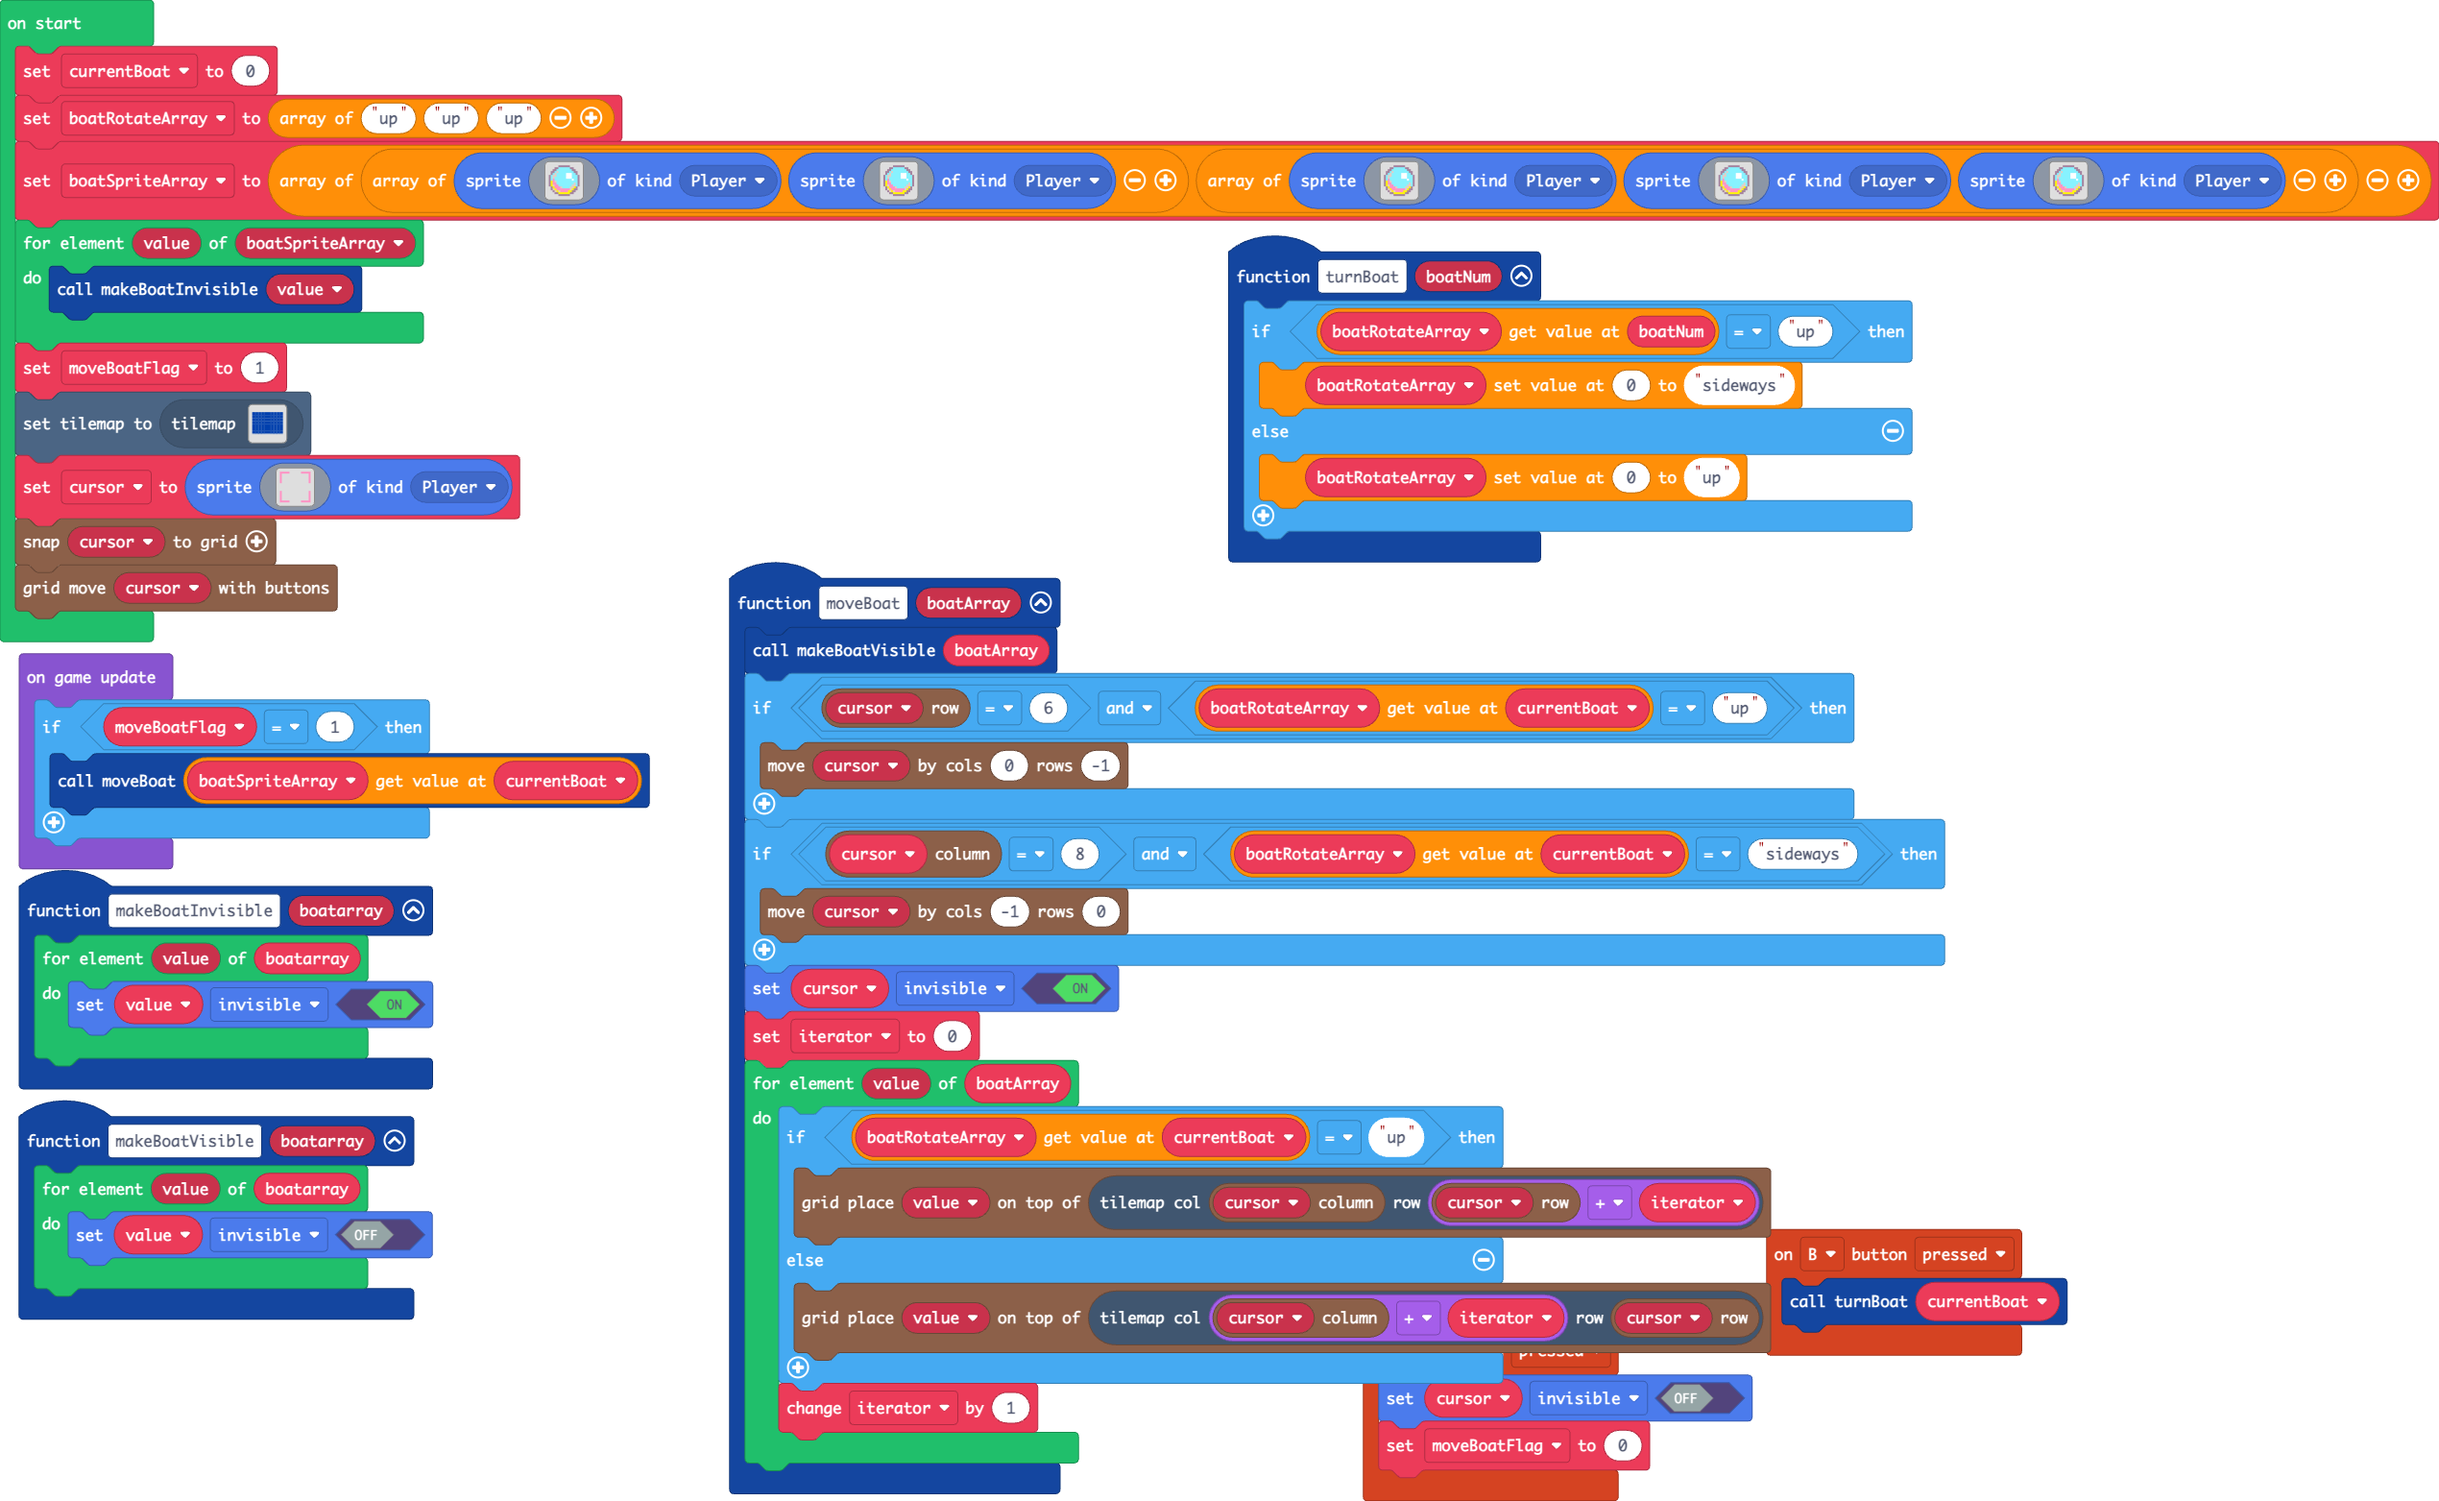
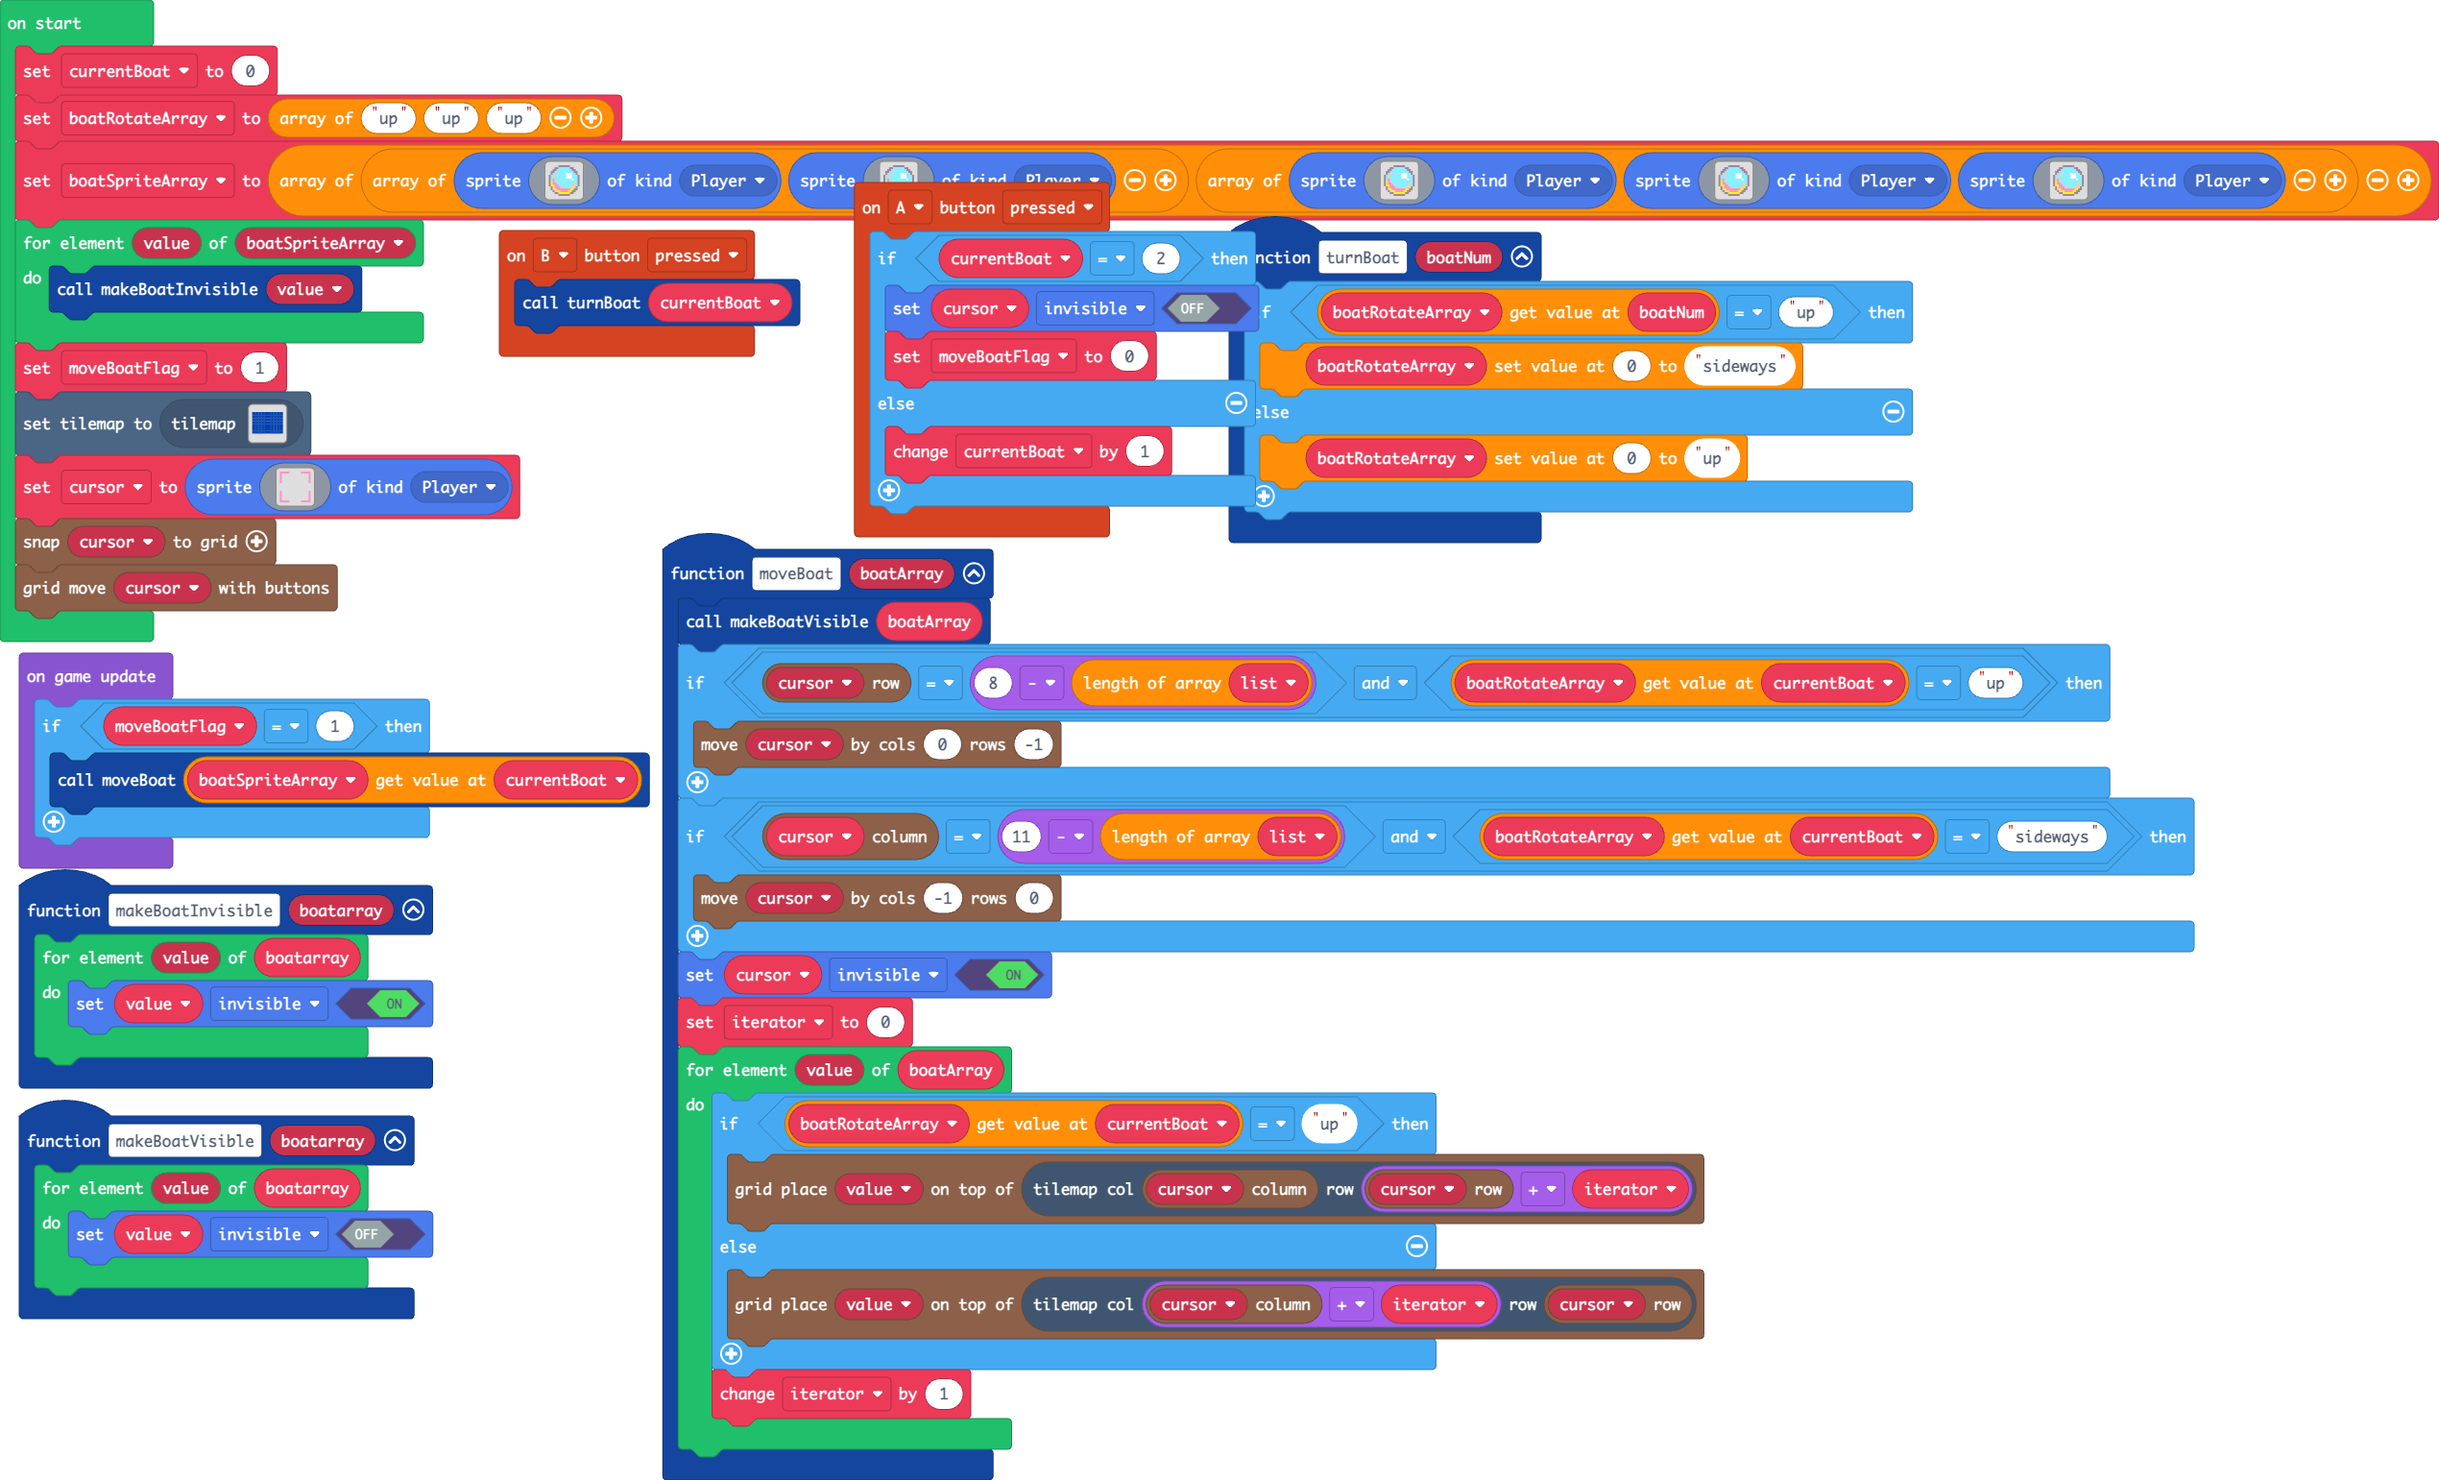
we can move boat "1"

diff --git a/main.ts b/main.ts
@@ -7,15 +7,20 @@ function makeBoatVisible (boatarray: Sprite[]) {
     }
 }
 controller.A.onEvent(ControllerButtonEvent.Pressed, function () {
-    cursor.setFlag(SpriteFlag.Invisible, false)
-    moveBoatFlag = 0
+    if (currentBoat == 2) {
+        cursor.setFlag(SpriteFlag.Invisible, false)
+        moveBoatFlag = 0
+    } else {
+        currentBoat += 1
+    }
 })
 function moveBoat (boatArray: any[]) {
+    let list: number[] = []
     makeBoatVisible(boatArray)
-    if (grid.spriteRow(cursor) == 6 && boatRotateArray[currentBoat] == "up") {
+    if (grid.spriteRow(cursor) == 8 - list.length && boatRotateArray[currentBoat] == "up") {
         grid.move(cursor, 0, -1)
     }
-    if (grid.spriteCol(cursor) == 8 && boatRotateArray[currentBoat] == "sideways") {
+    if (grid.spriteCol(cursor) == 11 - list.length && boatRotateArray[currentBoat] == "sideways") {
         grid.move(cursor, -1, 0)
     }
     cursor.setFlag(SpriteFlag.Invisible, true)
